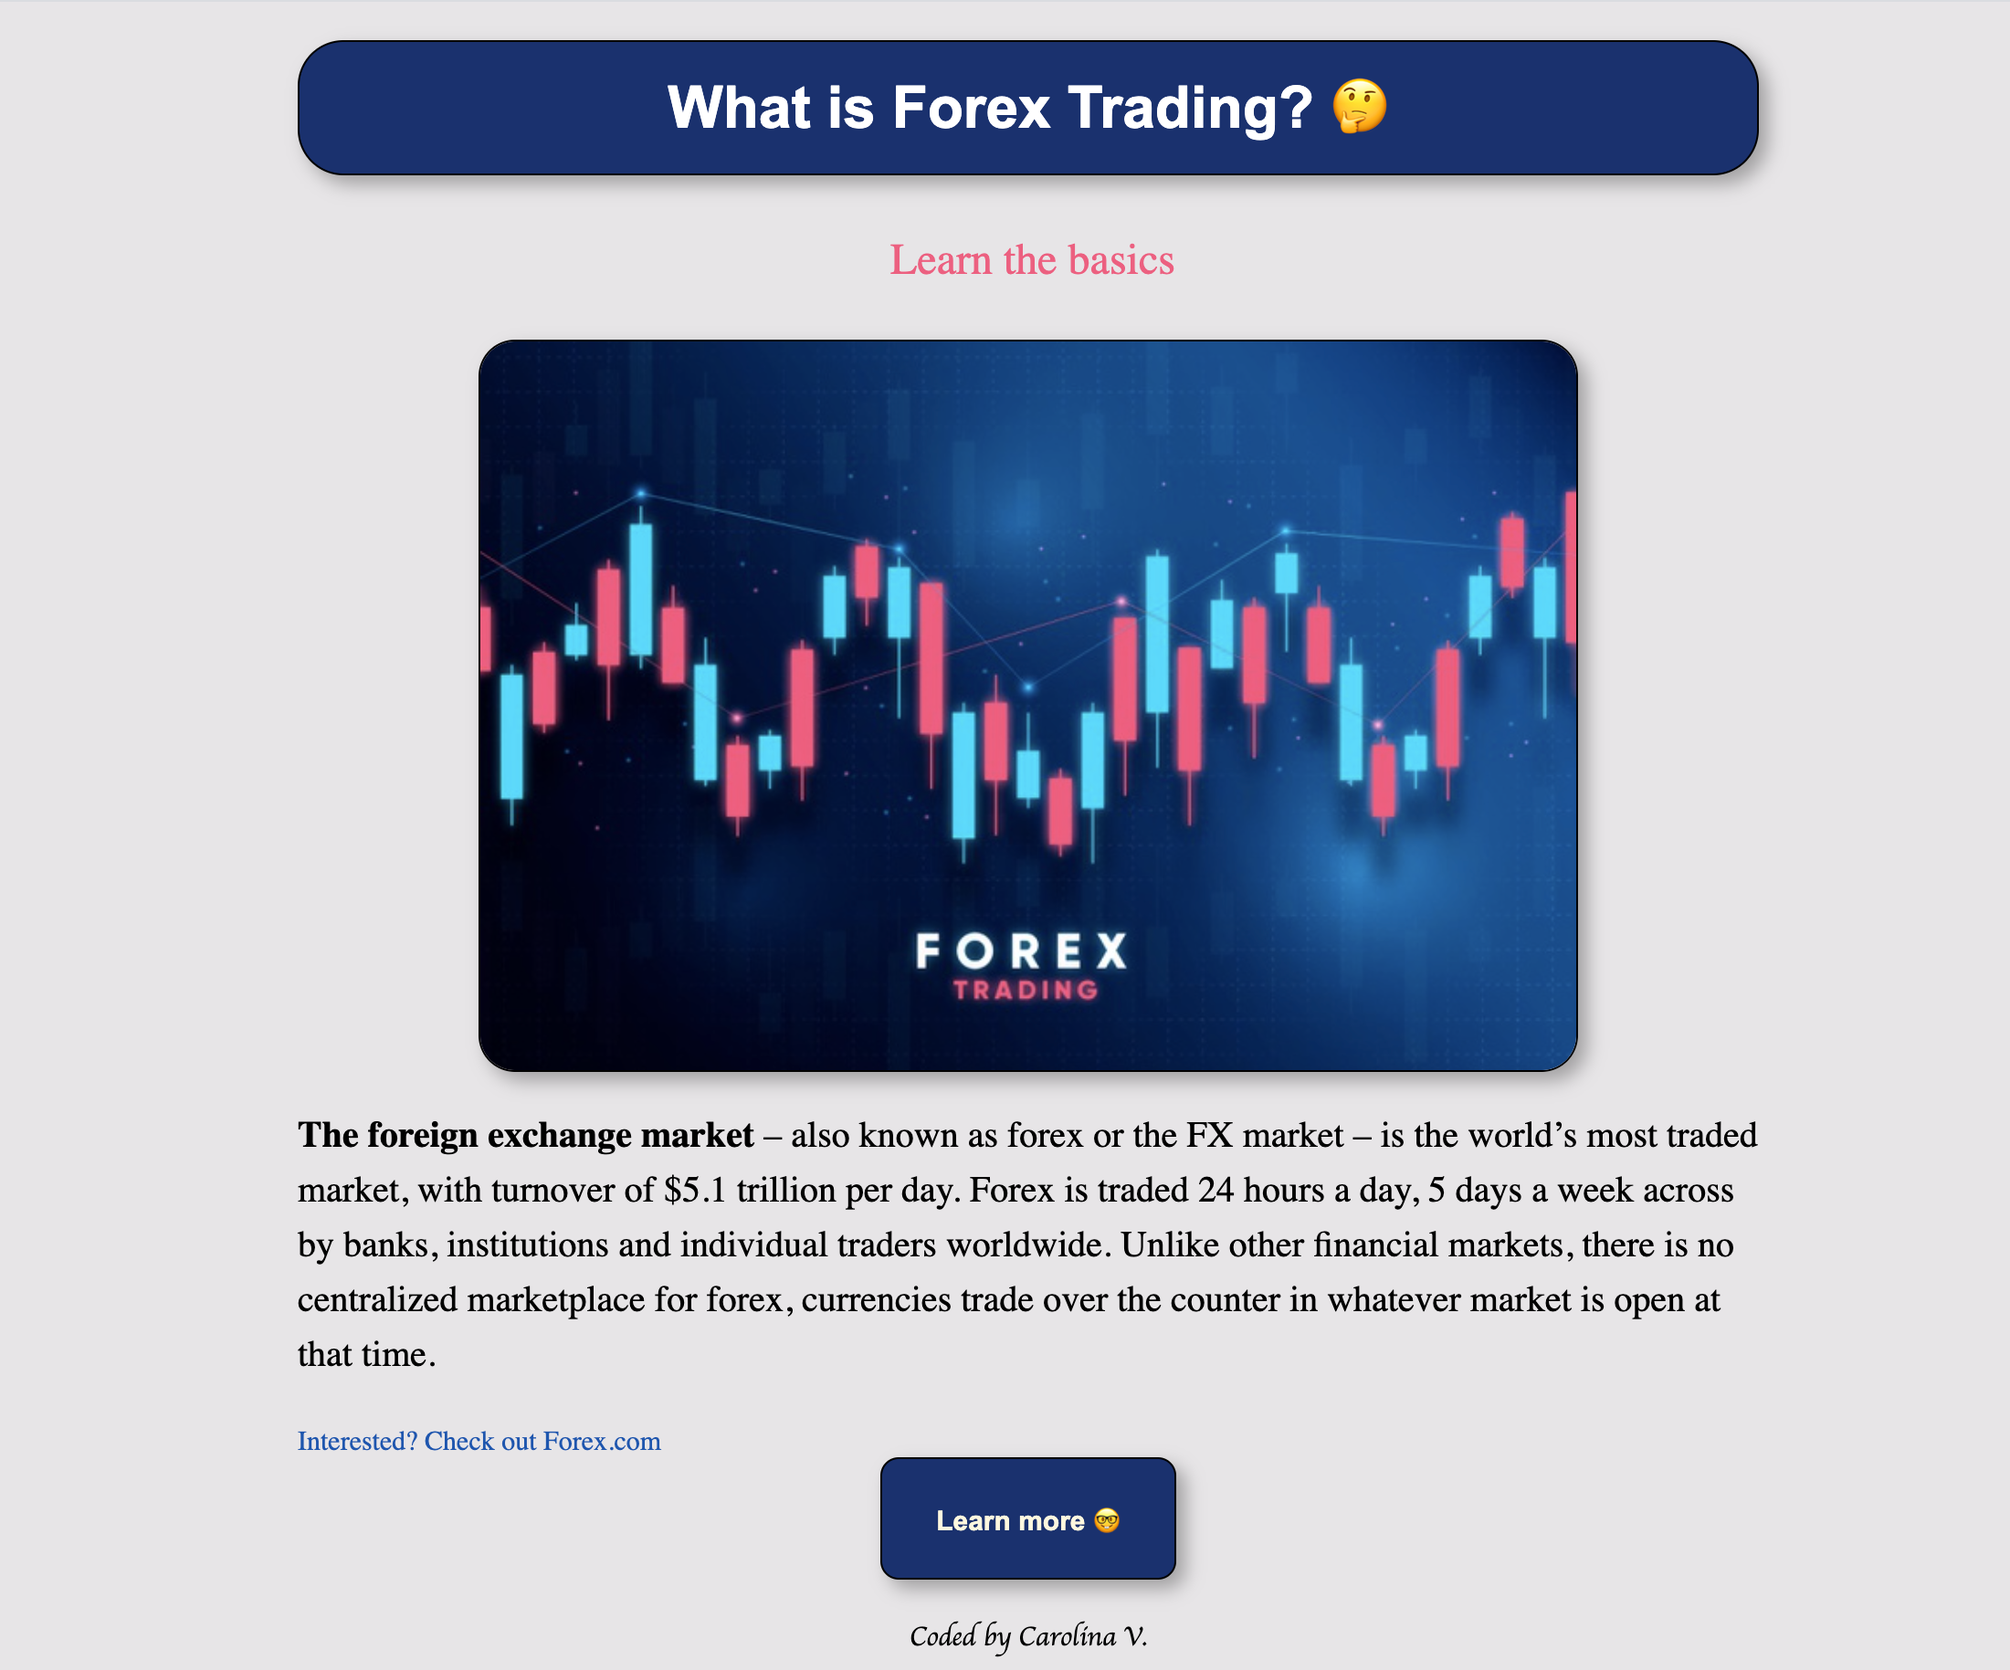
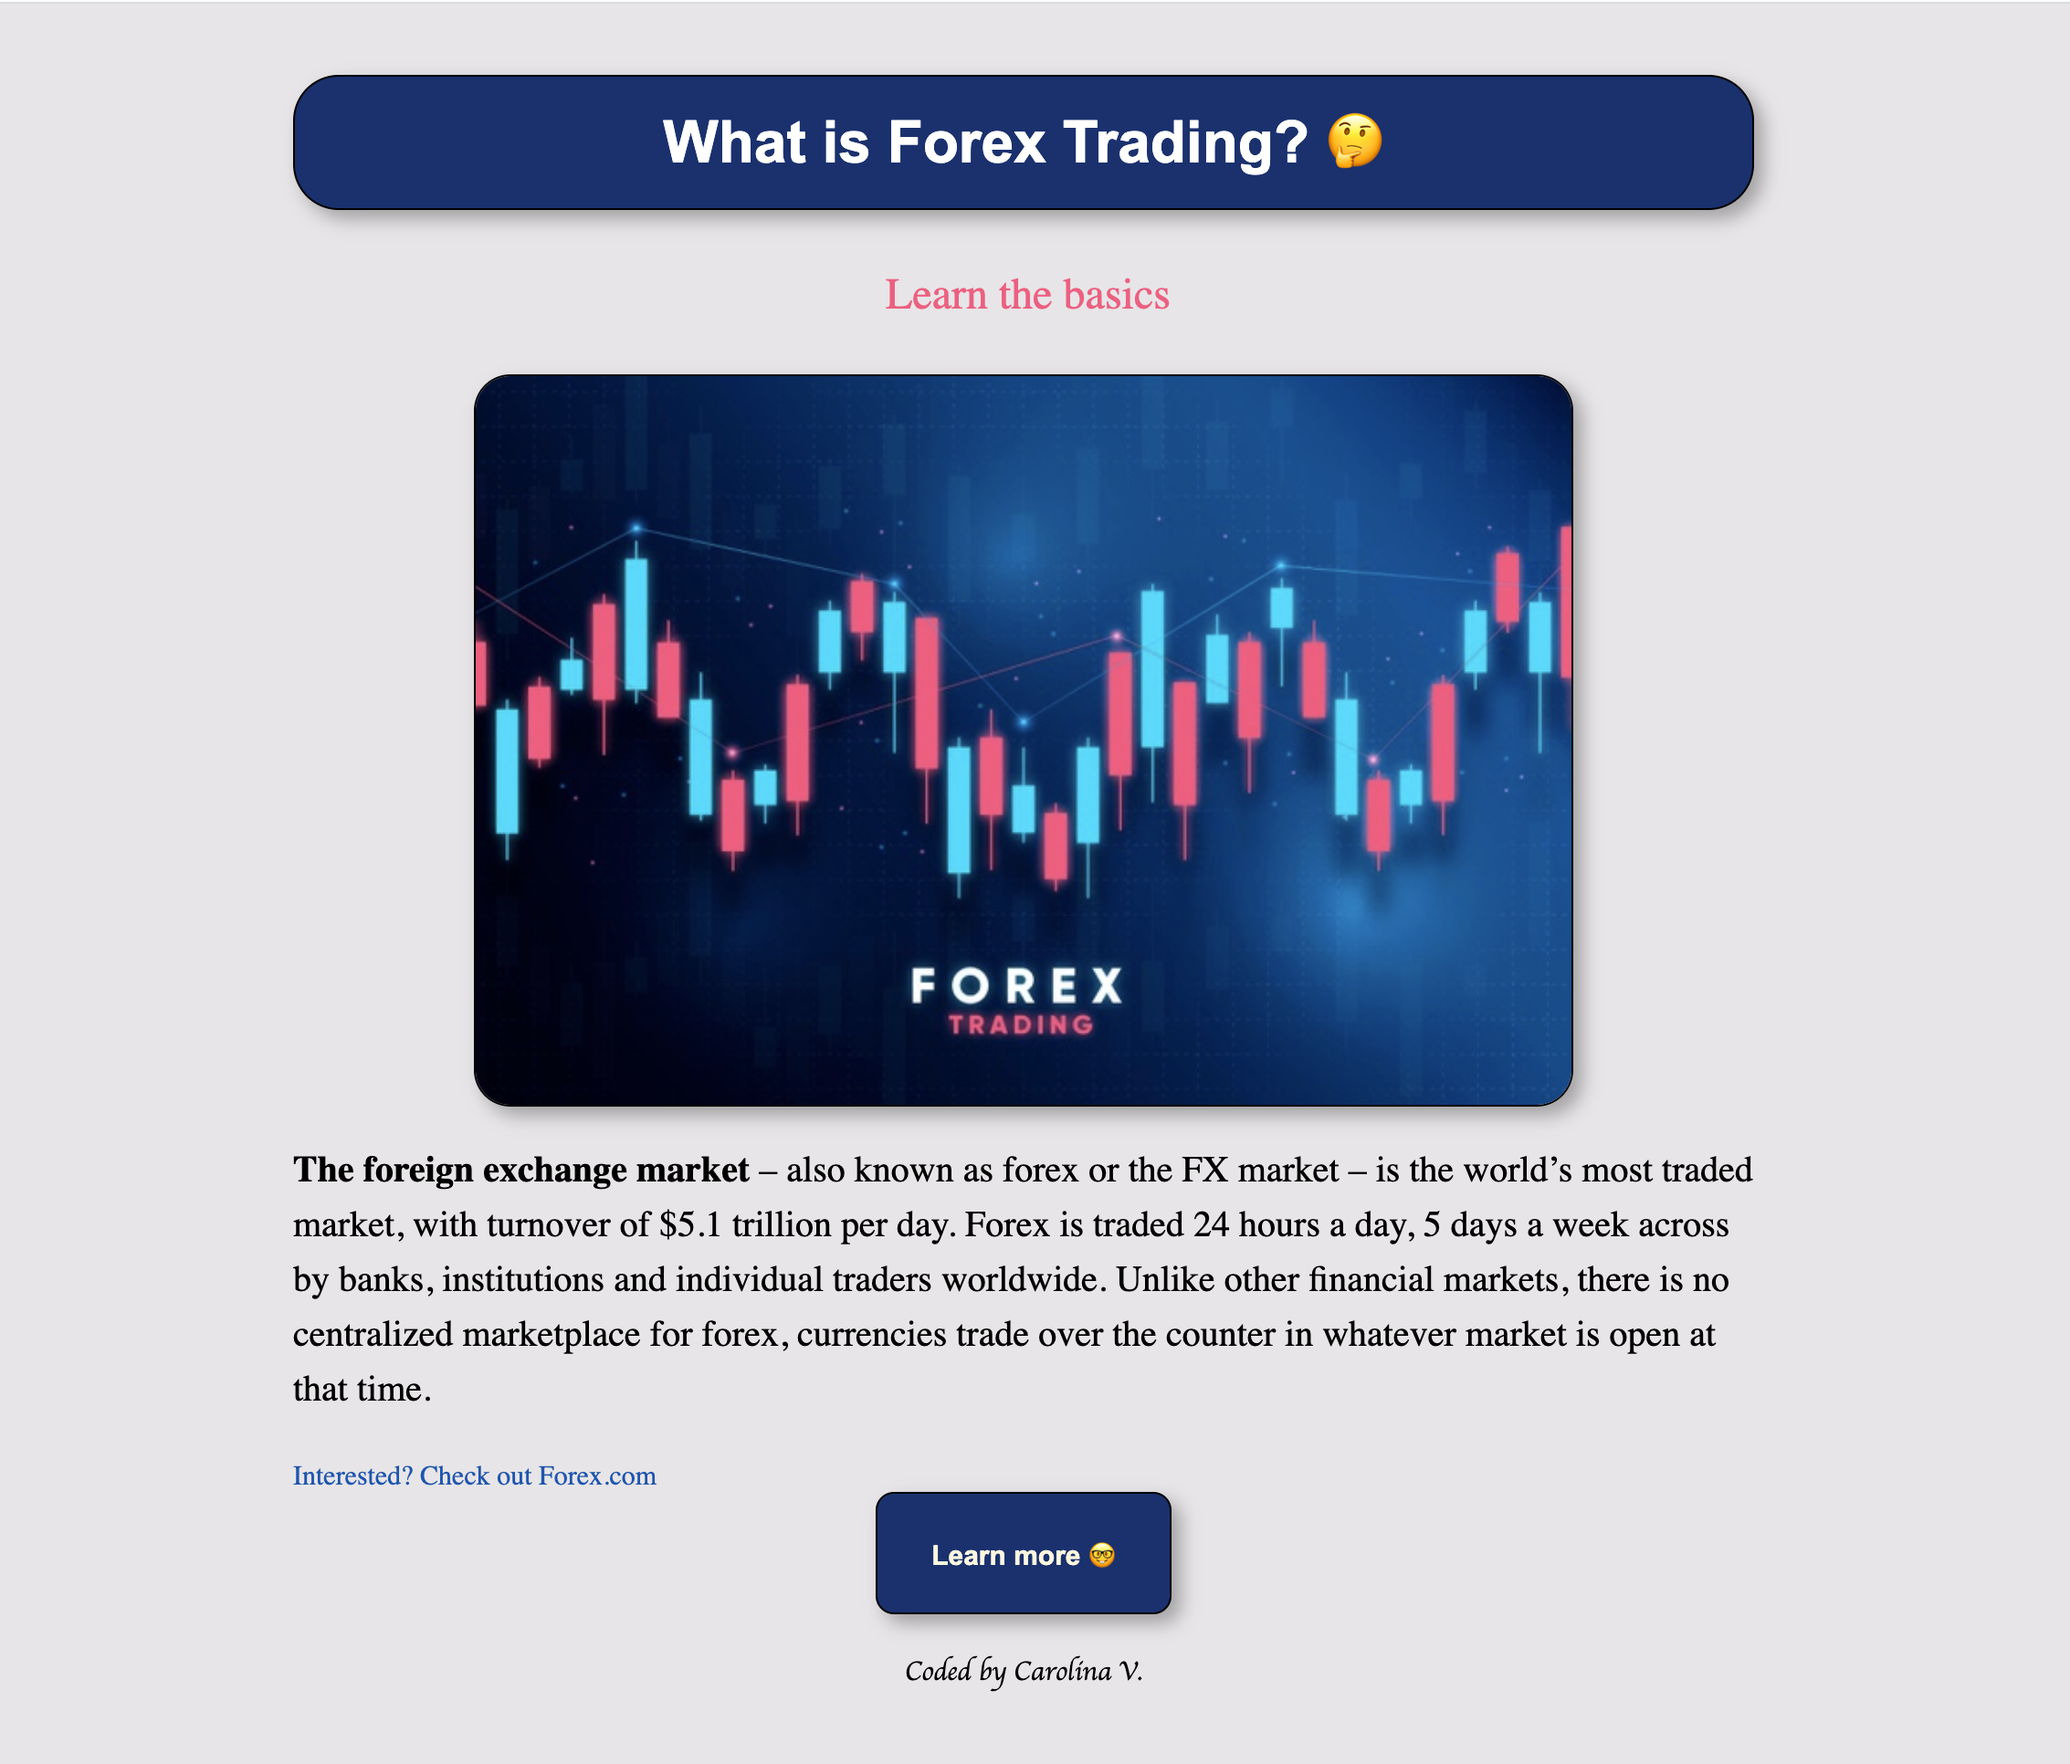
updated CSS on index.html

Changed region(s): [[0.1236, 0.0, 0.896, 0.8726], [0.4016, 0.8414, 0.6179, 0.9973]]

diff --git a/index.html b/index.html
@@ -26,8 +26,10 @@
     <div class="container">
      <nav class="d-flex justify-content-between">
          <a href="/" title="Homepage">
-        <img src="images/logo.png" class="logo d-none d-md-block " alt="Carolina Logo">
-          <img src="images/logo-small.jpeg" class="logo d-block d-md-none" alt="">
+            <p class="logo">
+                Carolina V.
+            </p>
+
      </a>
        <ul>
            <li class="active">
@@ -56,7 +58,7 @@
 </div>
 </div>
  <p class="text-center m-5">
-    Featured Project which my best projects be choice to show
+    Featured Projects that I worked on.
 <div class="container">
  <div class="row mb-5">
      <div class="col d-none d-lg-block">
@@ -70,7 +72,7 @@
     Basic Website Project
 </h2>
 <p class="mb-5 text-muted">
-    Far far away, behind the word mountains, far from the countries Vokalia and Consonantia, there live the blind texts. Separated they live in Bookmarksgrove right at the coast of the Semantics, a large language ocean. A small river named Duden flows by
+   A basic webpage about the foreign exchange market "forex", using basic html, css, and javascript.
 </p>
 <a href="/work.html" class="btn btn-branding-outline"> Learn more</a>
     </div>
@@ -85,7 +87,7 @@
     Weather App
 </h2>
 <p class="mb-5 text-muted">
-    Far far away, behind the word mountains, far from the countries Vokalia and Consonantia, there live the blind texts. Separated they live in Bookmarksgrove right at the coast of the Semantics, a large language ocean. A small river named Duden flows by
+    Using more advanced html, css and javascript, also incorporated tools like bootstrap, API integration and hosted on Netlify. Code is open-sourced on Github.
 </p>
 <a href="/work.html" class="btn btn-branding-outline"> Learn more</a>
     </div>

diff --git a/src/styles.css b/src/styles.css
@@ -1,7 +1,7 @@
 
 :root {
     --branding-color:#2954CC;
-    --secondary-color:#93DEF6;
+    --secondary-color:#F8F8CE;
     --heading-font-family: 'Playfair Display', serif;
     --default-font-family:'Poppins', sans-serif;
 }
@@ -33,7 +33,7 @@ h3{
 
 p {
 font-weight: normal;
-font-size: 16px;
+font-size: 20px;
 line-height: 30px;  
 }
 
@@ -46,9 +46,16 @@ img {
     max-width: 80%;
     border: 3px solid lightgray;
 }
+
+container .img-fluid {
+ 
+
+}
  
 .logo {
    max-height: 40px; 
+   font-size: 20px;
+   font-family: Apple Chancery, cursive;
 }
 
 nav {
@@ -155,7 +162,8 @@ padding: 12px 30px;
 }
 
 .project-description {
-    padding: 120px 60px;
+  padding:20px; 
+
 }
 
 footer {
